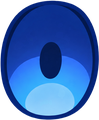
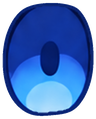
release: v0.2.15 大肥鱼的眼睛回到原来的位置 (#505)
- 原版配色的虹膜贴图改用旧贴图去掉高光的版本(ChatGPT 只抹高光，代码只配准、缩回原尺寸，透明度沿用旧贴图),两只眼的虹膜框改回旧坐标
- 版本 0.2.15

Fixes #504

diff --git a/docs/releases/v0.2.15.md b/docs/releases/v0.2.15.md
@@ -1,0 +1,19 @@
+# Coopanion v0.2.15
+
+**大肥鱼的眼睛回到原来的位置**
+
+## 修复
+
+- **大肥鱼的眼睛位置不对**:v0.2.14 换了原版配色的虹膜贴图，远侧那只眼的虹膜被画宽、往眼角挪了几个像素，两只眼看起来没对着同一处。现在两只眼的虹膜形状和位置恢复成 v0.2.13 的样子，只去掉了贴图里的高光;会动的高光照旧(感谢 @AL-spiritphoenix,#504)。
+
+## 下载
+
+- Windows x64 安装版:`Coopanion-Setup-0.2.15.exe`
+- Windows x64 便携版:`Coopanion-0.2.15-win-x64-portable.zip`
+- Apple 芯片 Mac:`Coopanion-0.2.15-mac-arm64.dmg` / `.zip`
+- Intel Mac:`Coopanion-0.2.15-mac-x64.dmg` / `.zip`
+- Linux x64:`Coopanion-0.2.15-linux-x64.deb` / `.AppImage`
+- `SHA256SUMS.txt`:八个安装文件的 SHA-256 校验值。
+- `latest.yml`、`latest-linux.yml`:自动更新读的版本信息，不用下载。
+
+Windows 安装版和 AppImage 会自动更新到这个版本。macOS 版本仍是临时签名、未经 Apple 公证，第一次打开的方法见 README。除简体中文和英文外的译文由模型翻译，欢迎提 PR 修正。
